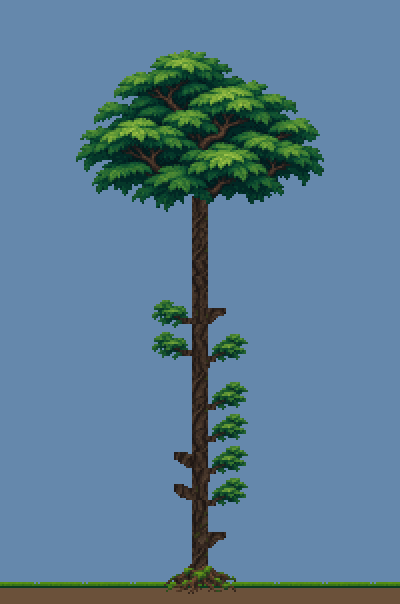
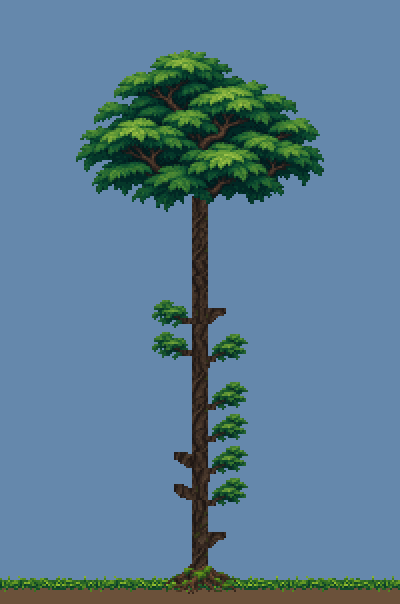
Texture grove turf and cover exposed dirt outlines

Changed region(s): [[0.57, 0.9536, 1.0, 0.9834], [0.0, 0.9536, 0.45, 0.9834], [0.51, 0.9536, 0.54, 0.9834]]

diff --git a/Content/Tiles/GrovePlants.cs b/Content/Tiles/GrovePlants.cs
@@ -31,15 +31,22 @@ namespace IslandAdventure.Content.Tiles
             var texture = ModContent.Request<Texture2D>("IslandAdventure/Assets/Grove/GrassEdge", ReLogic.Content.AssetRequestMode.ImmediateLoad).Value;
             Vector2 point = new Vector2(i*16,j*16) - Main.screenPosition;
             if (!Main.drawToScreen) point += new Vector2(Main.offScreenRange);
-            int frame = (i % 3) * 18;
+            int frame = (i % (texture.Width / 18)) * 18;
             Color light = Lighting.GetColor(i,j);
             // Pixel-column clipping follows vanilla hammered surfaces exactly.
             for (int x=0; x<16; x++)
             {
+                if (!tile.IsHalfBlock && tile.Slope == SlopeType.Solid)
+                {
+                    // Four pixels of tips above the surface, a dense body over the
+                    // dirt's dark outline, then small trailing roots on the dirt face.
+                    batch.Draw(texture,point+new Vector2(x,-4),new Rectangle(frame+x,0,1,16),light);
+                    continue;
+                }
                 int top = tile.IsHalfBlock ? 8 : tile.Slope == SlopeType.SlopeDownRight ? 15-x
                     : tile.Slope == SlopeType.SlopeDownLeft ? x : 0;
                 int height = System.Math.Min(8,16-top);
-                batch.Draw(texture,point+new Vector2(x,top),new Rectangle(frame+x,8-height,1,height),light);
+                batch.Draw(texture,point+new Vector2(x,top),new Rectangle(frame+x,12-height,1,height),light);
             }
             // A root fan follows the living tree; it occupies no extra collision tiles.
             // Draw once at the trunk center, rather than offsetting it to a flared side root.

diff --git a/tools/render_grove_tree_preview.py b/tools/render_grove_tree_preview.py
@@ -38,7 +38,7 @@ def render():
                          f"{x-origin_x:+d}{y-origin_y:+d}", "-composite"])
 
         for x in range(origin_x // 16, (origin_x + 400) // 16 + 1):
-            add("GrassEdge", f"16x8+{(x%3)*18}+0", x*16, floor*16)
+            add("GrassEdge", f"16x16+{(x%6)*18}+0", x*16, floor*16-4)
         for tile in tiles:
             add("Tree", f"20x20+{tile['fx']}+{tile['fy']}",
                 tile["x"] * 16 - 2, tile["y"] * 16)
@@ -81,7 +81,7 @@ def render_ground_contact():
             args.extend([str(path), "-geometry", f"{x:+d}{y:+d}", "-composite"])
 
         for x in range(0, width, 16):
-            add("GrassEdge", f"16x8+{((x//16)%3)*18}+0", x, baseline)
+            add("GrassEdge", f"16x16+{((x//16)%6)*18}+0", x, baseline-4)
         x = 16
         for name, columns, rows in objects:
             offset = 12 if name == "Roots" else 6

diff --git a/tools/art/grove/README.md b/tools/art/grove/README.md
@@ -23,8 +23,9 @@ is repaired to be continuous; side-only root/branch shapes stay separate. `Tree_
 the same drawing split into an ordinary 6x2-tile decorative object.
 
 Live trees grow on custom turf, drop vanilla wood, and render in normal world
-lighting. The turf rim has a separate continuous source: the lower 4px of each 16px
-frame are fully opaque. It no longer slices separate moss cushions. The dirt
+lighting. The turf rim has a separate continuous source: six 16x16 frames use a 4px fringe, 8px fully opaque textured body and 4px
+ragged lower edge. Source rows 4..11 cover world y=0..7, hiding the vanilla
+dirt outline. Top/bottom tips retain alpha. It no longer slices separate moss cushions. The dirt
 base remains vanilla Dirt.
 Large shrub and fern source/art were retained from 0.4.3.
 
@@ -41,3 +42,8 @@ roots, 6 for wood/stone props, 4 for other plants. The static renderer now
 includes the actual turf rim and a schematic soil guide.
 `ground-contact-preview.png` assembles the actual rock/log/root atlas cells
 with these native draw offsets to catch floating props before client review.
+
+`bash tools/build_grove_turf.sh` rebuilds only the turf. Its 48x8 logical
+source reduction retains more cluster detail than the old 24x4 strip.
+Six frame gutters remain transparent, but are never sampled by the renderer.
+The body is checked for complete alpha coverage and no near-black opaque pixels.
